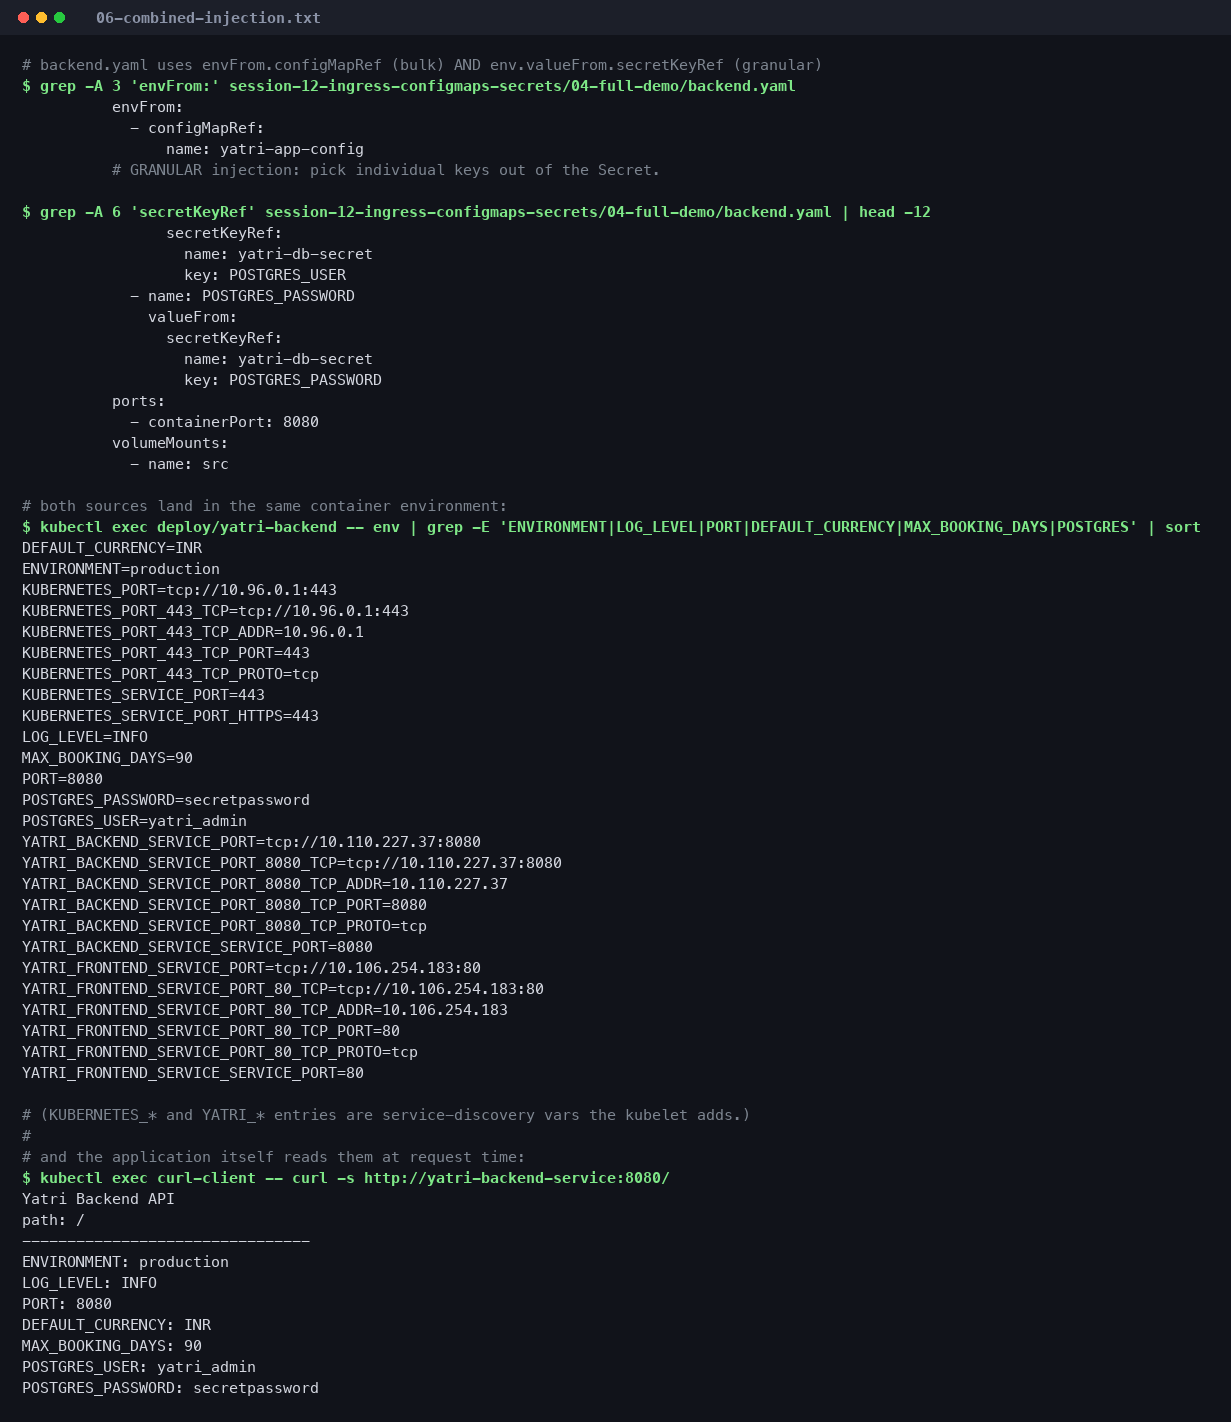
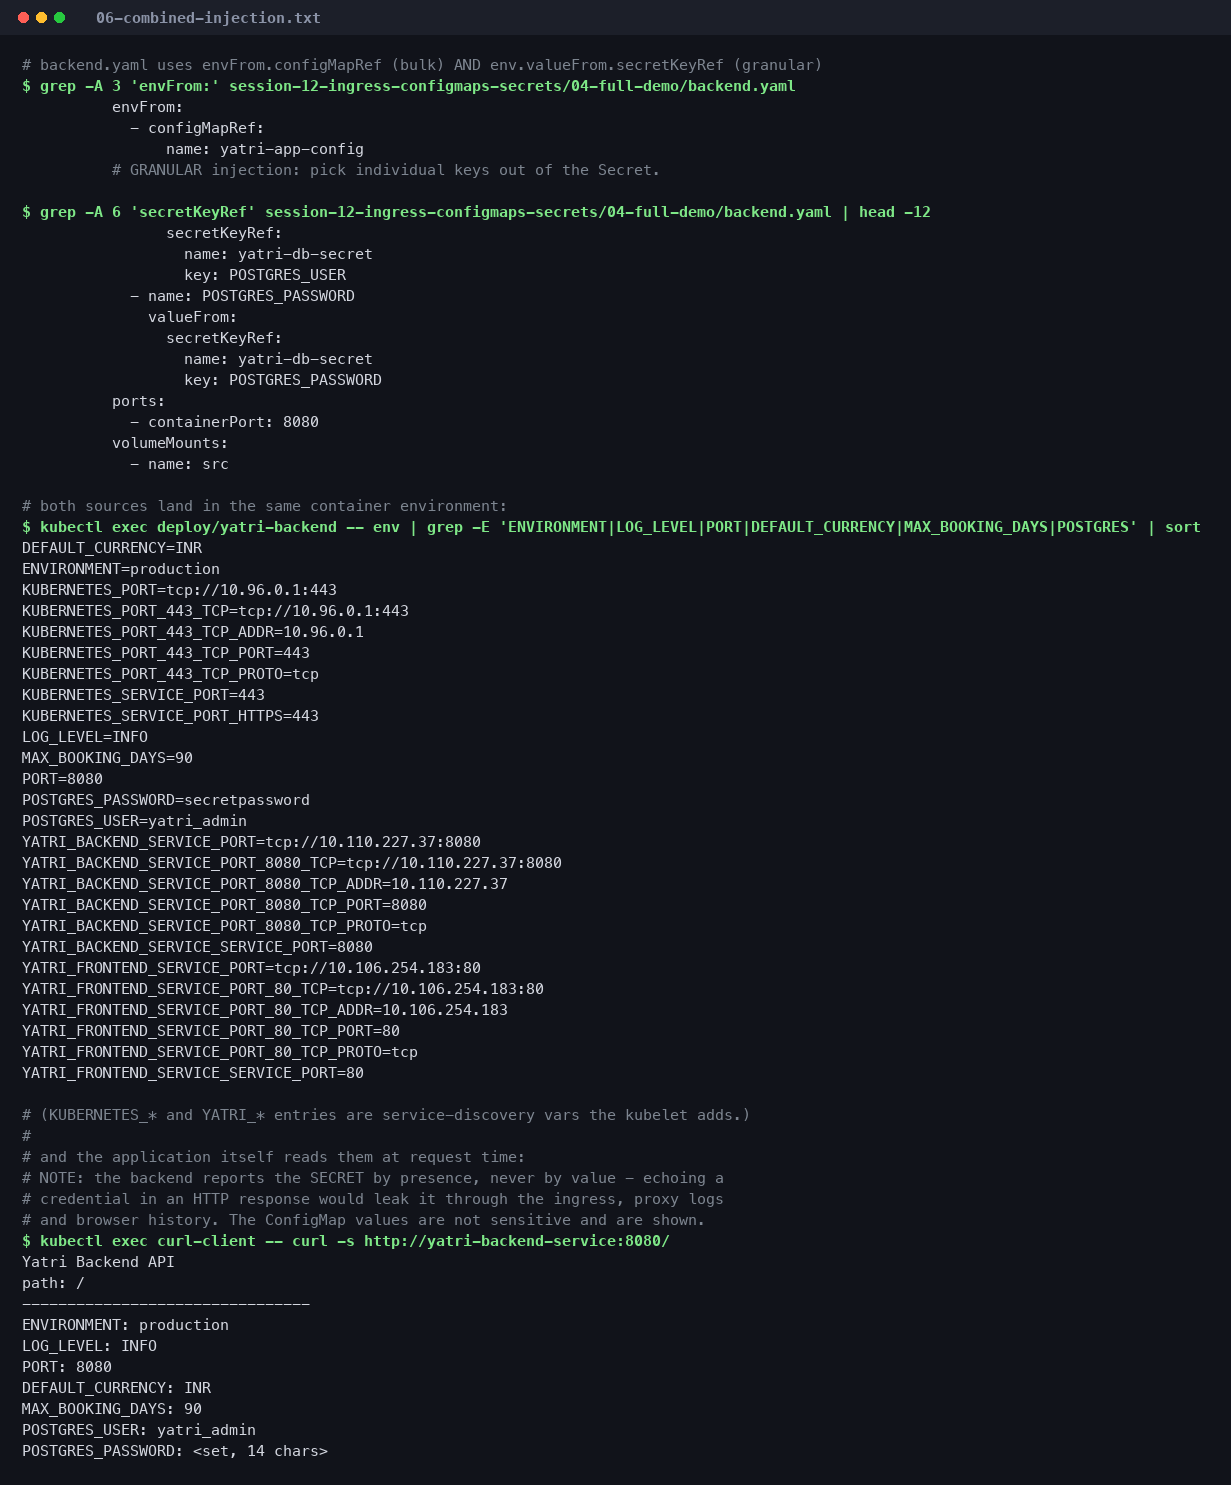
Session 16: fix container entrypoint and EOF spin; harden Session 12 secret echo
Session 16
- ENTRYPOINT -> CMD: with ENTRYPOINT, 'docker run <img> <cmd>' appends rather
  than replaces, so the CD smoke test launched the interactive calculator and
  hung for 11 minutes. CMD is overridden cleanly.
- calculator.py spun forever on EOF (no TTY) because input()'s EOFError was
  swallowed by a catch-all handler; it now exits.
- CD smoke test made explicit (--entrypoint) and bounded with timeout.

Session 12 (security review finding)
- The demo backend echoed POSTGRES_PASSWORD in its HTTP response. It now reports
  the secret by presence only ('<set, 14 chars>'), which still proves injection
  without leaking the value through the ingress, proxy logs or browser history.
  Affected captures re-run against the hardened code.

Changed region(s): [[0.0, 0.0309, 0.9569, 0.9902], [0.0309, 0.1238, 0.0617, 0.1547]]

diff --git a/session-16-github-actions/app/calculator.py b/session-16-github-actions/app/calculator.py
@@ -49,6 +49,11 @@ if __name__ == "__main__":
                 print(f"Result: {divide(a, b)}")
             else:
                 print(f"Unknown operation: {op}")
+        except (EOFError, KeyboardInterrupt):
+            # No TTY (e.g. inside a container with no stdin): exit instead of
+            # spinning forever on repeated EOF from input().
+            print("\nGoodbye!")
+            break
         except ValueError as e:
             print(f"Error: {e}")
         except Exception as e:

diff --git a/session-12-ingress-configmaps-secrets/README.md b/session-12-ingress-configmaps-secrets/README.md
@@ -224,9 +224,20 @@ path: /
 --------------------------------
 ENVIRONMENT: production
 LOG_LEVEL: INFO
+PORT: 8080
+DEFAULT_CURRENCY: INR
+MAX_BOOKING_DAYS: 90
 POSTGRES_USER: yatri_admin
-POSTGRES_PASSWORD: secretpassword
+POSTGRES_PASSWORD: <set, 14 chars>
 ```
+
+> **The backend reports the secret by presence, never by value.** Echoing a
+> credential in an HTTP response is a real vulnerability — it leaks through the
+> ingress, reverse-proxy access logs, browser history and any error tracker.
+> Proving the Secret was injected does not require disclosing it; the length is
+> enough, and `14 chars` doubles as confirmation that no trailing newline crept in
+> (Task 4). Non-sensitive ConfigMap values are shown in full because they are not
+> secrets.
 
 `envFrom` is convenient but imports *everything* and gives no control over names;
 `secretKeyRef` is explicit and lets you rename a key. The usual convention is
@@ -361,6 +372,7 @@ $ curl -H 'Host: yatri.local' http://127.0.0.1:18080/api/
 Yatri Backend API
 ENVIRONMENT: production
 POSTGRES_USER: yatri_admin                           <-- backend
+POSTGRES_PASSWORD: <set, 14 chars>                   <-- masked, not echoed
 ```
 
 **The rewrite proven, not just configured.** The backend echoes the path it
